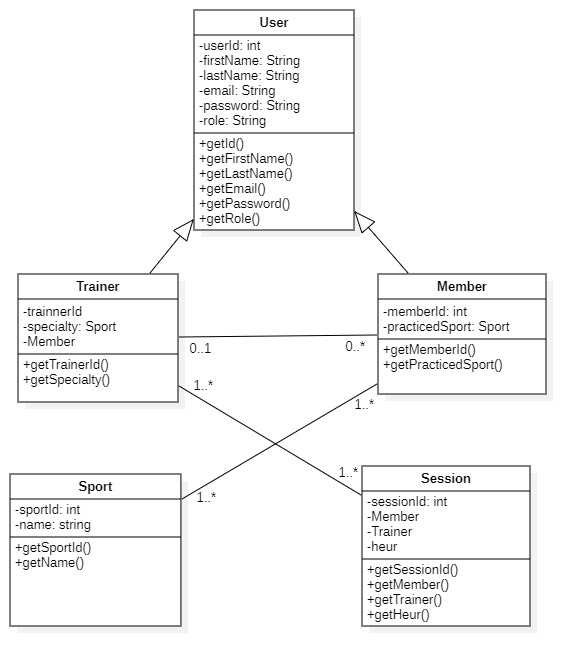
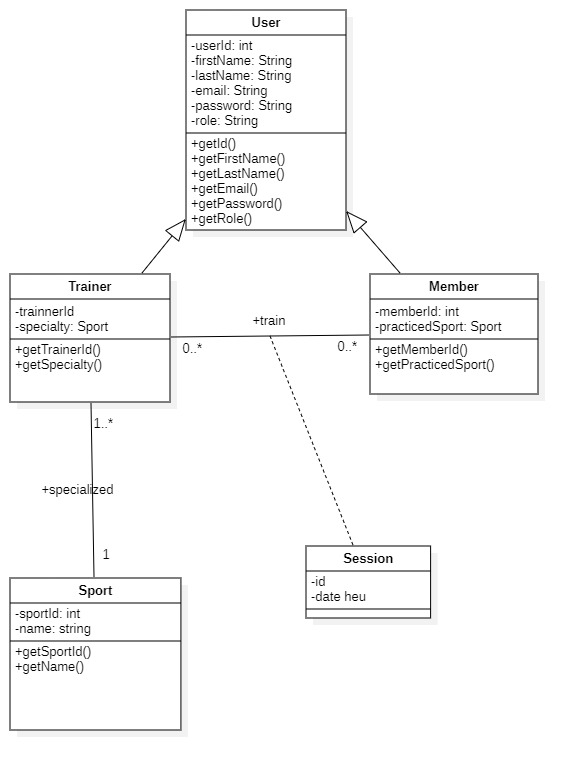
create models and package structure

diff --git a/src/main/java/com/sportflow/model/User.java b/src/main/java/com/sportflow/model/User.java
@@ -1,0 +1,61 @@
+package com.sportflow.model;
+
+public abstract class User {
+
+    private int id;
+    private String firstName;
+    private String lastName;
+    private String email;
+    private String password;
+    private String role;
+
+    public User () {}
+
+    public int getId() {
+        return id;
+    }
+
+    public String getFirstName() {
+        return firstName;
+    }
+
+    public String getLastName() {
+        return lastName;
+    }
+
+    public String getEmail() {
+        return email;
+    }
+
+    public String getPassword() {
+        return password;
+    }
+
+    public String getRole() {
+        return role;
+    }
+
+    public void setId(int id) {
+        this.id = id;
+    }
+
+    public void setFirstName(String firstName) {
+        this.firstName = firstName;
+    }
+
+    public void setLastName(String lastName) {
+        this.lastName = lastName;
+    }
+
+    public void setEmail(String email) {
+        this.email = email;
+    }
+
+    public void setPassword(String password) {
+        this.password = password;
+    }
+
+    public void setRole(String role) {
+        this.role = role;
+    }
+}

diff --git a/src/main/java/com/sportflow/model/Session.java b/src/main/java/com/sportflow/model/Session.java
@@ -1,0 +1,42 @@
+package com.sportflow.model;
+
+public class Session {
+    private int sessionId;
+    private String date;
+    private Member member;
+    private Trainer trainer;
+
+    public Session () {}
+
+    public int getSessionId() {
+        return sessionId;
+    }
+
+    public String getDate() {
+        return date;
+    }
+
+    public Member getMember() {
+        return member;
+    }
+
+    public Trainer getTrainer() {
+        return trainer;
+    }
+
+    public void setSessionId(int sessionId) {
+        this.sessionId = sessionId;
+    }
+
+    public void setDate(String date) {
+        this.date = date;
+    }
+
+    public void setMember(Member member) {
+        this.member = member;
+    }
+
+    public void setTrainer(Trainer trainer) {
+        this.trainer = trainer;
+    }
+}

diff --git a/src/main/java/com/sportflow/model/Member.java b/src/main/java/com/sportflow/model/Member.java
@@ -1,0 +1,24 @@
+package com.sportflow.model;
+
+public class Member extends User {
+    private int memberId;
+    private String practicedSport;
+
+    public Member () {}
+
+    public int getMemberId() {
+        return memberId;
+    }
+
+    public String getPracticedSport() {
+        return practicedSport;
+    }
+
+    public void setMemberId(int memberId) {
+        this.memberId = memberId;
+    }
+
+    public void setPracticedSport(String practicedSport) {
+        this.practicedSport = practicedSport;
+    }
+}

diff --git a/src/main/java/com/sportflow/model/Trainer.java b/src/main/java/com/sportflow/model/Trainer.java
@@ -1,0 +1,24 @@
+package com.sportflow.model;
+
+public class Trainer extends User {
+    private int trainerId;
+    private String specialty;
+
+    public Trainer() {}
+
+    public int getTrainerId() {
+        return trainerId;
+    }
+
+    public String getSpecialty() {
+        return specialty;
+    }
+
+    public void setTrainerId(int trainerId) {
+        this.trainerId = trainerId;
+    }
+
+    public void setSpecialty(String specialty) {
+        this.specialty = specialty;
+    }
+}
